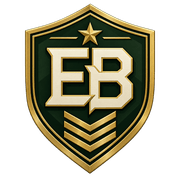
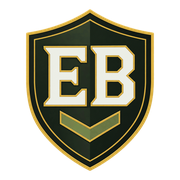
feat: replace brand emblem across site

diff --git a/app/components/Manager.tsx b/app/components/Manager.tsx
@@ -7,6 +7,7 @@ import {TrainingWindows} from './TrainingWindows';
 export {RobloxAvatar as Avatar} from './RobloxIdentity';
 import {DivisionImage,useDivisions} from './DivisionDirectory';
 import {FeedbackToast} from './FeedbackToast';
+import {BrandEmblem} from './BrandEmblem';
 const RankChangeWorkflow=dynamic(()=>import('./RankChangeWorkflow').then(m=>m.RankChangeWorkflow));
 const TrainingRegistration=dynamic(()=>import('./TrainingRegistration').then(m=>m.TrainingRegistration));
 const CommerceWorkspace=dynamic(()=>import('./CommerceWorkspace'));
@@ -79,7 +80,7 @@ export default function Manager({user,preview=false}:{user:SessionUser;preview?:
  function changeTheme(value:string){setTheme(value);try{localStorage.setItem('mig-theme',value)}catch{}}
  const permitted=visible.includes(active as Channel)||(active==='Gestão do criador'&&creator);
  return <div className={`manager theme-${theme}`}><a className="skip-link" href="#manager-main">Ir para o conteúdo</a>{menu&&<button className="menu-scrim" aria-label="Fechar menu" onClick={()=>setMenu(false)}/>}
- <aside className={`manager-sidebar ${menu?'is-open':''}`} aria-label="Menu principal"><div className="manager-brand"><span className="brand-shield"><Icon name="shield" size={29}/></span><span>EB DO MIG<small>Central militar</small></span></div><button className="close-menu icon-button" aria-label="Fechar menu" onClick={()=>setMenu(false)}><Icon name="close"/></button><nav>{groups.map(g=>g.items.some(i=>visible.includes(i as Channel))&&<div className="menu-group" key={g.title}><p>{g.title}</p>{g.items.filter(i=>visible.includes(i as Channel)).map(item=><button key={item} className={active===item?'selected':''} aria-current={active===item?'page':undefined} onClick={()=>navigate(item)}><Icon name={icons[item]}/><span>{item}</span>{active===item&&<i/>}</button>)}</div>)}{creator&&<div className="menu-group creator-nav"><p>Exclusivo de Criadores</p><button className={active==='Gestão do criador'?'selected':''} onClick={()=>navigate('Gestão do criador')}><Icon name="shield"/><span>Gestão do criador</span></button></div>}</nav><div className="sidebar-account"><div className="account-tools"><button aria-label="Alternar tema" onClick={()=>changeTheme(theme==='dark'?'light':'dark')}><Icon name="sun"/></button><button aria-label="Atualizar consultas" disabled={loading} onClick={()=>void load()}><Icon name="refresh"/></button><a href={preview?'/':'/api/auth/logout'}>{preview?'Entrar':'Sair'}</a></div><div className="account-person"><Avatar name={user.username} src={user.avatar}/><div><b>{user.username}</b><small>{preview&&!creator?'[SLD] Soldado':user.rank||'Membro'}</small></div></div></div></aside>
+ <aside className={`manager-sidebar ${menu?'is-open':''}`} aria-label="Menu principal"><div className="manager-brand"><BrandEmblem size={42} decorative priority/><span>EB DO MIG<small>Central militar</small></span></div><button className="close-menu icon-button" aria-label="Fechar menu" onClick={()=>setMenu(false)}><Icon name="close"/></button><nav>{groups.map(g=>g.items.some(i=>visible.includes(i as Channel))&&<div className="menu-group" key={g.title}><p>{g.title}</p>{g.items.filter(i=>visible.includes(i as Channel)).map(item=><button key={item} className={active===item?'selected':''} aria-current={active===item?'page':undefined} onClick={()=>navigate(item)}><Icon name={icons[item]}/><span>{item}</span>{active===item&&<i/>}</button>)}</div>)}{creator&&<div className="menu-group creator-nav"><p>Exclusivo de Criadores</p><button className={active==='Gestão do criador'?'selected':''} onClick={()=>navigate('Gestão do criador')}><Icon name="shield"/><span>Gestão do criador</span></button></div>}</nav><div className="sidebar-account"><div className="account-tools"><button aria-label="Alternar tema" onClick={()=>changeTheme(theme==='dark'?'light':'dark')}><Icon name="sun"/></button><button aria-label="Atualizar consultas" disabled={loading} onClick={()=>void load()}><Icon name="refresh"/></button><a href={preview?'/':'/api/auth/logout'}>{preview?'Entrar':'Sair'}</a></div><div className="account-person"><Avatar name={user.username} src={user.avatar}/><div><b>{user.username}</b><small>{preview&&!creator?'[SLD] Soldado':user.rank||'Membro'}</small></div></div></div></aside>
  <div className="manager-content">{announcements.filter(item=>item.placement==='topbar').map(item=><AnnouncementBanner item={item} key={item.id}/>)}<header className="manager-topbar"><button className="open-menu icon-button" aria-label="Abrir menu" aria-expanded={menu} onClick={()=>setMenu(true)}><Icon name="menu"/></button><span>Central militar <span className="breadcrumb">/ {active}</span></span><span className="connection"><i/>{preview?'Demonstração':loading?'Consultando…':error?'Consulta indisponível':'Sessão autenticada'}</span></header><main id="manager-main" className="manager-main" tabIndex={-1}>{announcements.filter(item=>item.placement==='below').map(item=><AnnouncementBanner item={item} key={item.id}/>)}{preview&&<div className="demo-notice"><span><b>Demonstração interativa</b> · Dados fictícios.</span><label>Visualizar como <select aria-label="Visualizar como" value={demoRole} onChange={e=>{setDemoRole(e.target.value);navigate('Início')}}><option value="creator">Criador</option><option value="member">Soldado</option></select></label></div>}{notice&&<div className="mural"><Icon name="flag"/><span><b>Bem-vindo à central do EB DO MIG.</b> Consulte sua patente e acompanhe sua divisão.</span><button className="icon-button" aria-label="Fechar aviso" onClick={()=>setNotice(false)}><Icon name="close" size={16}/></button></div>}<div className="manager-heading"><div><h1>{active==='Início'?'Seu quartel, em um só lugar.':active}</h1><p>{descriptions[active]||'Organização e informação para o seu dia a dia no Exército.'}</p></div>{['Início','Estatísticas','CDP','Logs globais'].includes(active)&&<button className="m-button" disabled={loading} onClick={()=>void load()}><Icon name="refresh" size={16}/>{loading?'Carregando…':'Atualizar'}</button>}</div>{error&&<div className="m-alert" role="alert">{error} <button onClick={()=>void load()}>Tentar novamente</button></div>}
  {!permitted?<Blank title={loading?'Verificando acesso…':'Guia indisponível para sua patente'} text="As permissões de cada guia são definidas pelos Criadores."/>:<>
  {active==='Início'&&<Overview preview={preview} user={preview&&!creator?{...user,rank:"[SLD] Soldado"}:user} data={data} navigate={navigate} visible={visible}/>}

diff --git a/app/public-site.css b/app/public-site.css
@@ -63,3 +63,6 @@
 @media(max-width:980px){.ops-hero{grid-template-columns:1fr;gap:55px}.ops-hero-access{width:min(520px,100%)}.ops-section-head{grid-template-columns:1fr}.ops-workbench{grid-template-columns:1fr}.ops-order{border-right:0;border-bottom:1px solid var(--ops-line)}.ops-track-list{grid-template-columns:1fr 1fr}.ops-track-list article:nth-child(2){border-right:0}.ops-track-list article:nth-child(-n+2){border-bottom:1px solid var(--ops-line)}.ops-records{grid-template-columns:1fr;gap:55px}.ops-role-table>div{grid-template-columns:.7fr 1.3fr .5fr}}
 @media(max-width:620px){.ops-nav{height:70px}.ops-nav .public-brand>div small{display:none}.ops-hero{width:min(100% - 28px,1180px);min-height:auto;padding:52px 0 62px}.ops-status small{display:none}.ops-hero-copy h1{margin-top:24px;font-size:43px}.ops-hero-copy>p{font-size:13px}.ops-hero-actions{align-items:flex-start;flex-direction:column}.ops-brief{margin-top:40px}.ops-hero-access .access-card{padding:22px}.ops-unit{width:100%;height:430px;border-radius:0}.ops-unit img{object-position:58% center}.ops-unit-shade{background:linear-gradient(0deg,rgba(6,10,7,.92),transparent 78%),linear-gradient(90deg,rgba(6,10,7,.5),transparent)}.ops-unit figcaption{right:24px;bottom:24px;left:24px}.ops-workflow,.ops-tracks,.ops-access-rules,.ops-faq{width:min(100% - 28px,1180px);padding:82px 0}.ops-section-head{gap:20px;margin-bottom:34px}.ops-section-head h2{font-size:36px}.ops-section-head p{font-size:12px}.ops-order{padding:22px}.ops-order dl{grid-template-columns:1fr}.ops-order dl>div:nth-child(odd),.ops-order dl>div:nth-child(even){padding:17px 0;border-right:0}.ops-process li{padding:18px}.ops-track-list{grid-template-columns:1fr}.ops-track-list article,.ops-track-list article:nth-child(2){min-height:220px;border-right:0;border-bottom:1px solid var(--ops-line)}.ops-track-list h3{margin-top:42px}.ops-records{padding:82px 14px}.ops-record-copy h2{font-size:36px}.ops-logbook>header,.ops-logbook ol{padding-inline:18px}.ops-logbook>footer{margin-inline:18px}.ops-role-table .head{display:none}.ops-role-table>div{grid-template-columns:1fr;gap:9px;padding:22px 4px}.ops-role-table i{justify-self:start}.ops-closing{padding:82px 16px}.ops-closing h2{font-size:39px}.ops-footer{width:calc(100% - 28px)}}
 @media(prefers-reduced-motion:reduce){.ops-track-list article{transition:none}}
+
+/* Brand emblem v2 */
+.public-brand>.brand-emblem{border:0;clip-path:none;background:transparent;color:inherit;font:inherit}

diff --git a/app/components/BrandEmblem.tsx b/app/components/BrandEmblem.tsx
@@ -10,7 +10,7 @@ type BrandEmblemProps={
 export function BrandEmblem({size=52,className='',decorative=false,priority=false}:BrandEmblemProps){
   return <span className={`brand-emblem${className?` ${className}`:''}`} style={{width:size,height:size}}>
     <Image
-      src="/brand/eb-do-mig-emblem-256.png"
+      src="/brand/eb-do-mig-emblem-v2-256.png"
       width={size}
       height={size}
       sizes={`${size}px`}
